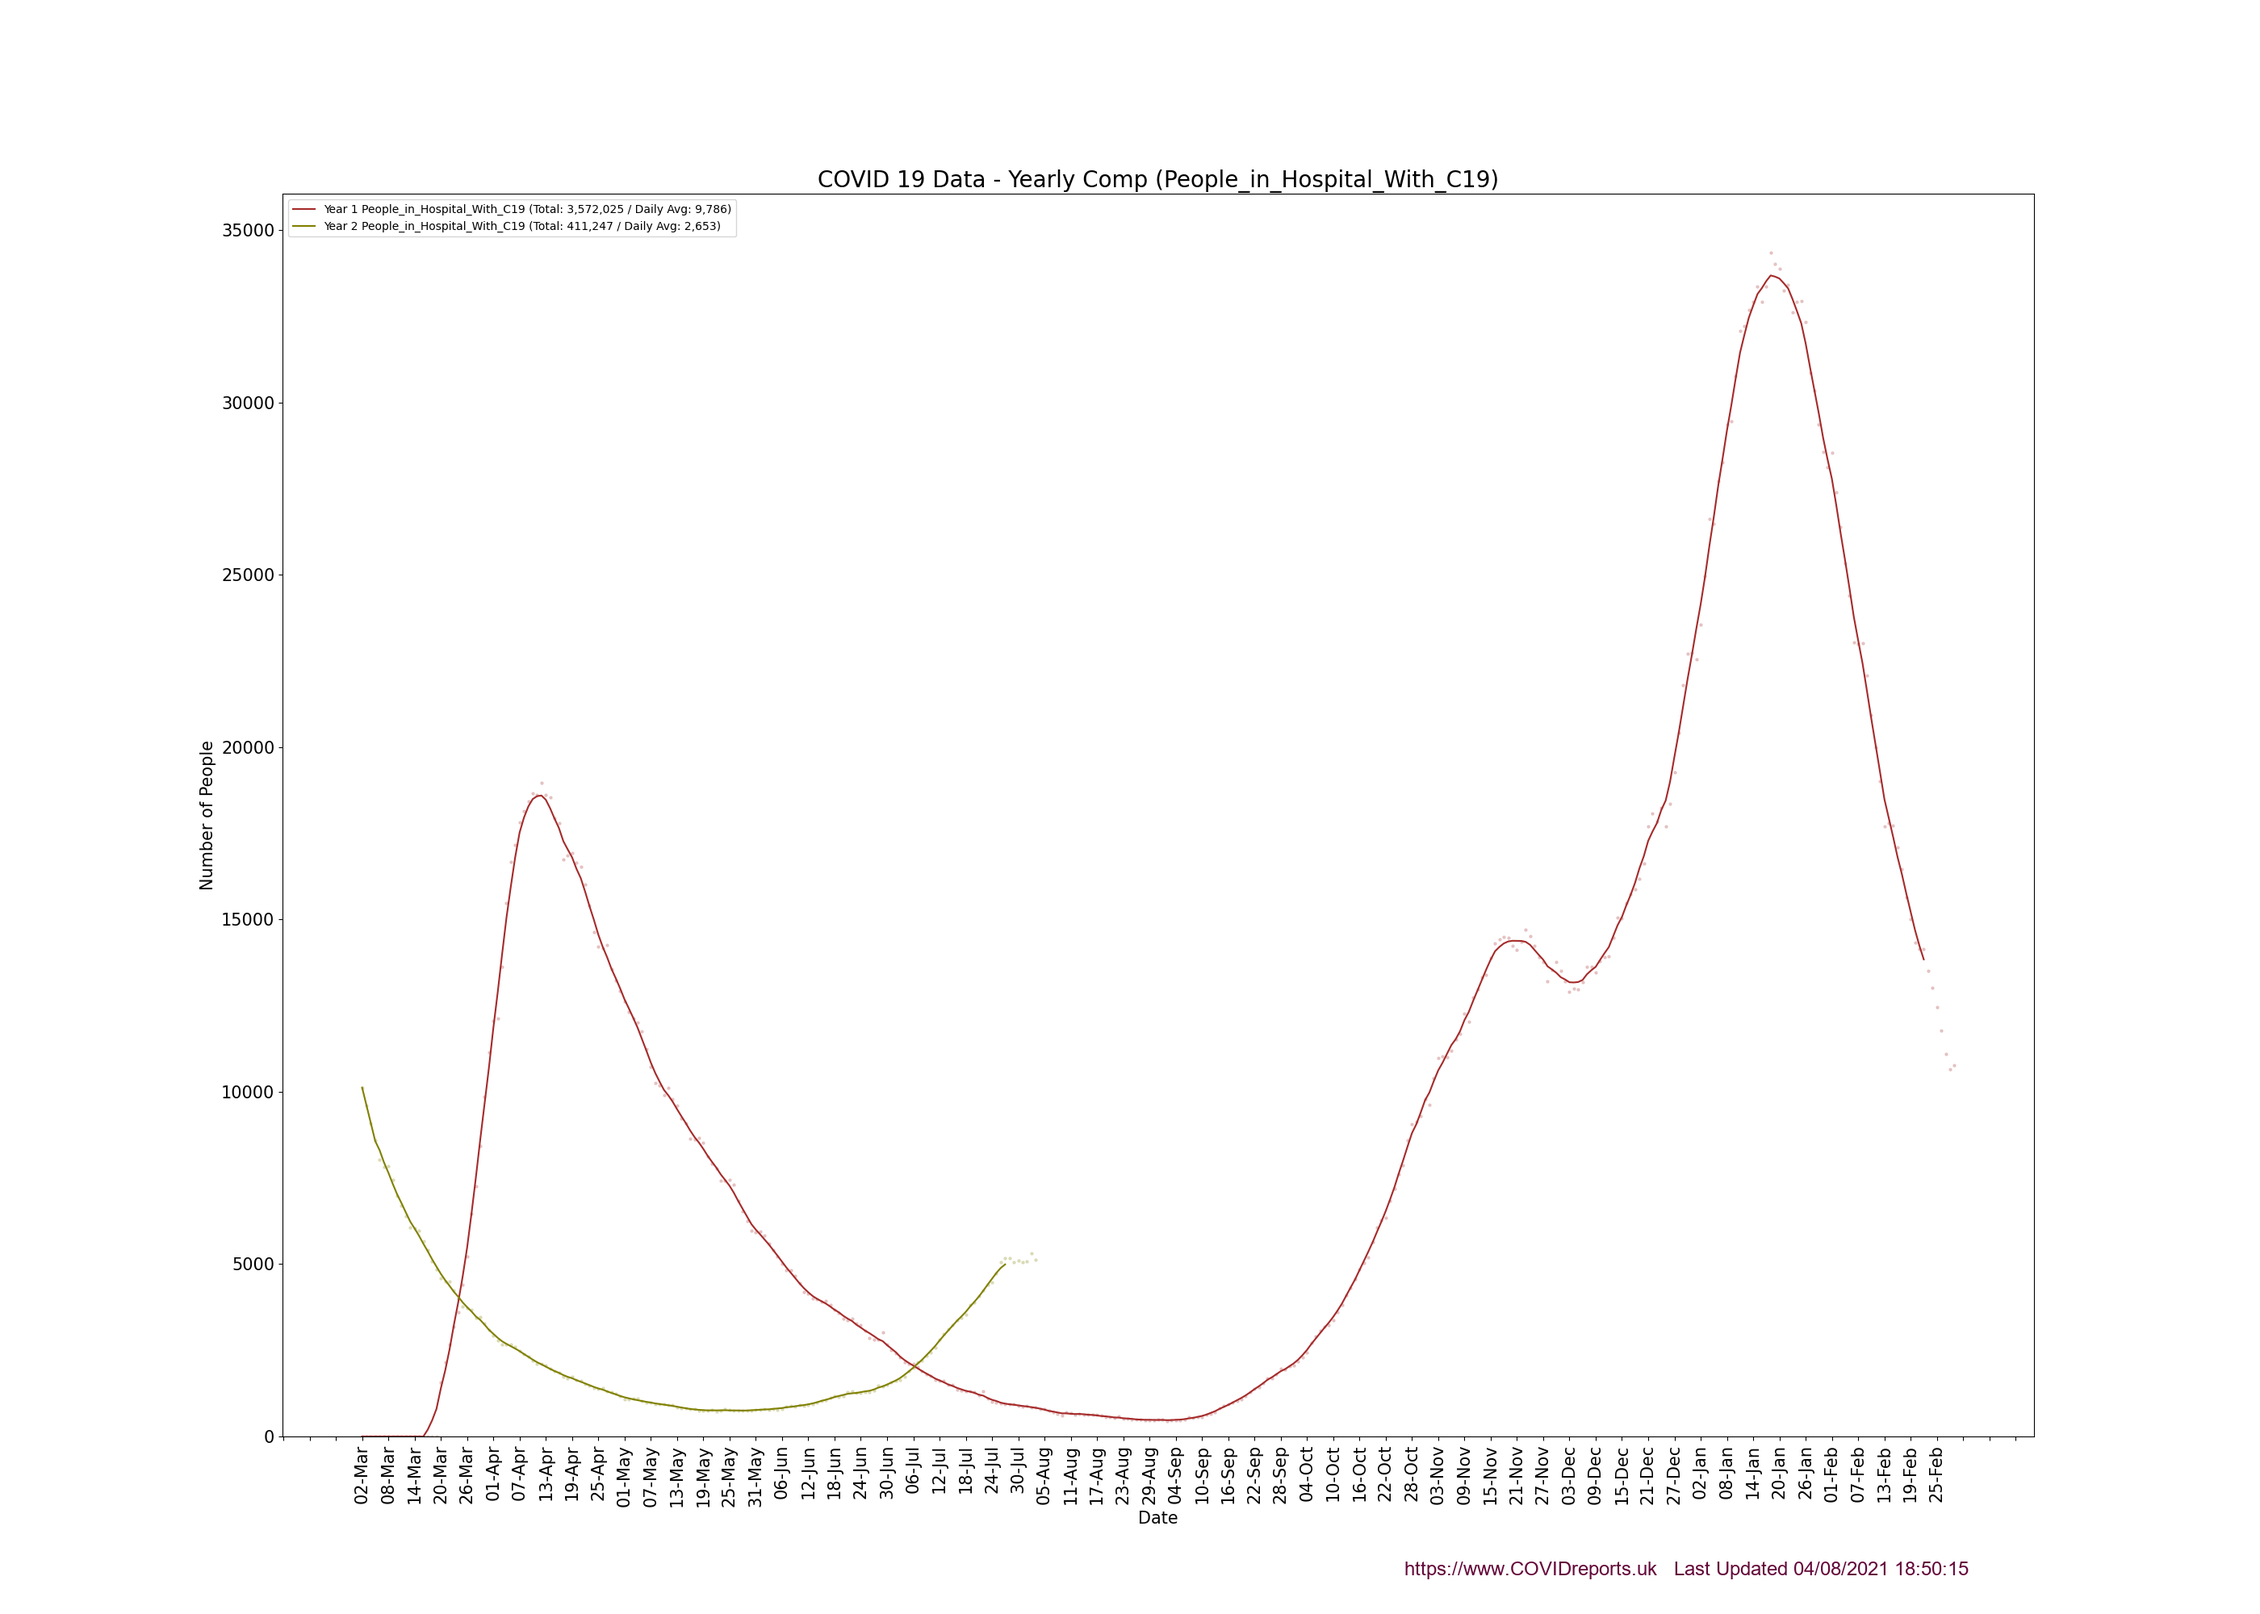
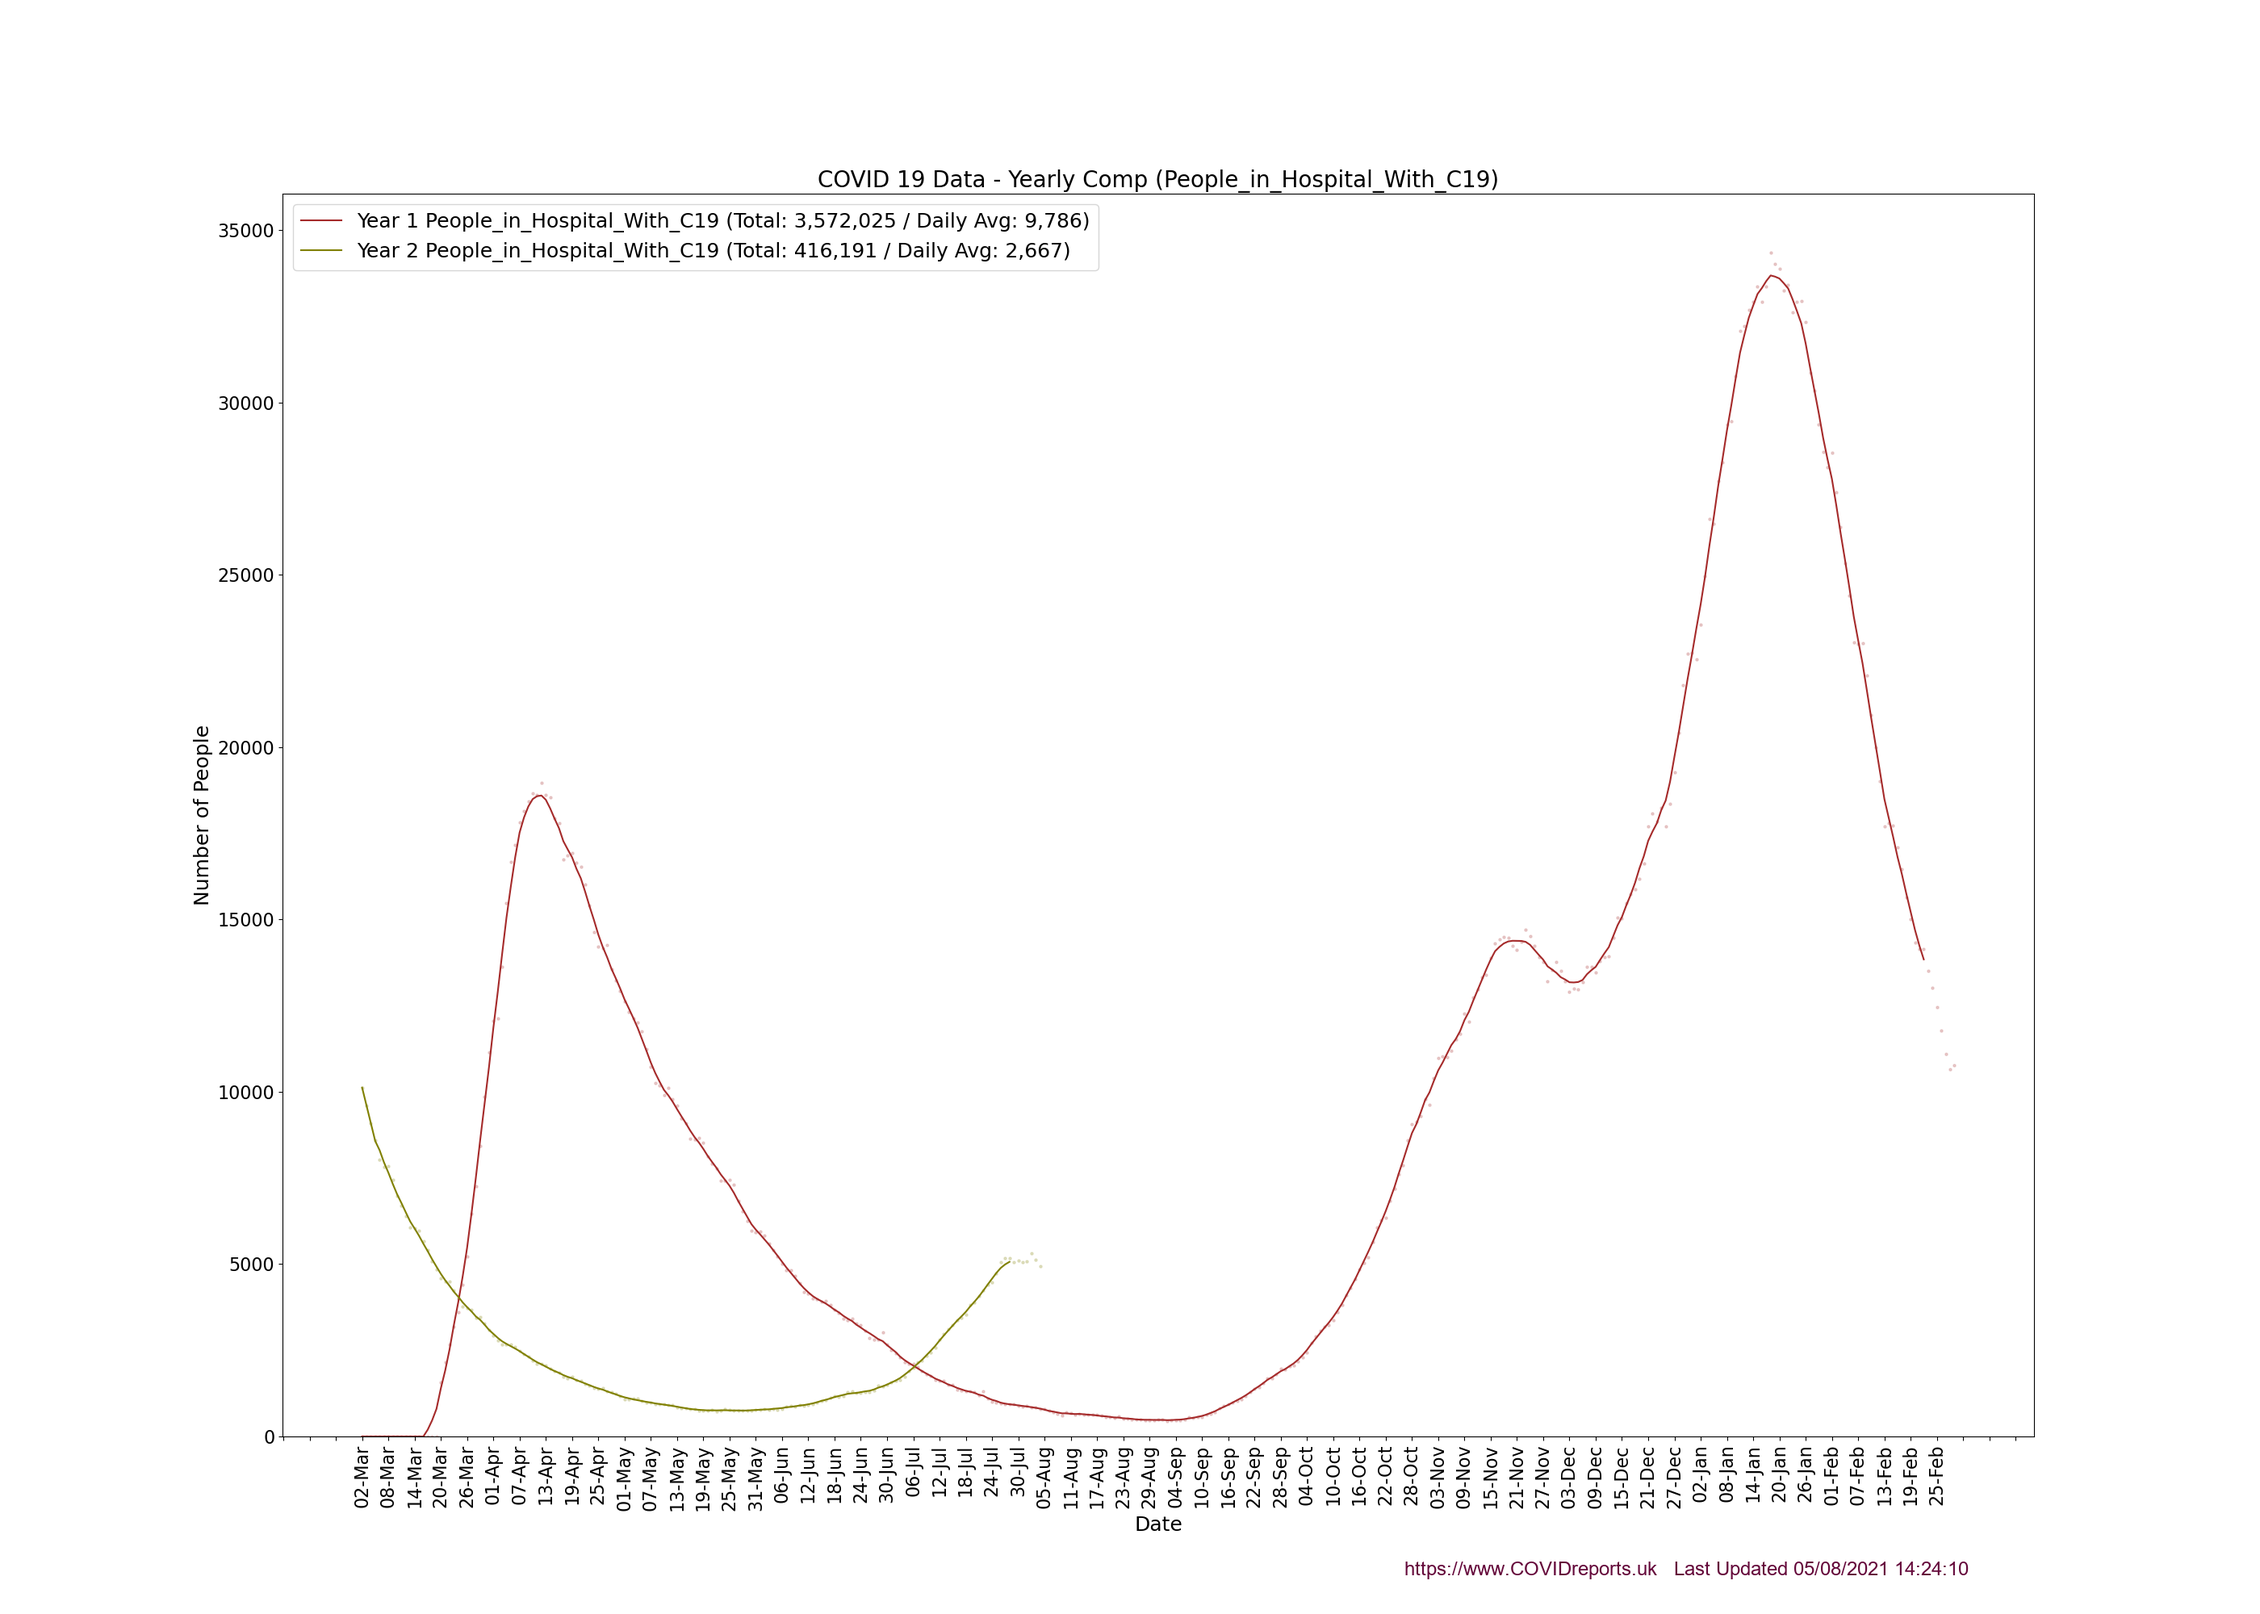
Stuff added to various modules

diff --git a/pages_02_Cases_Deaths.py b/pages_02_Cases_Deaths.py
@@ -44,7 +44,7 @@ def draw_Scatter_Aged_Cases_per_Million(lLimit, hLimit):
         chart.addScatterplot(dataAge.GOVdateSeries, agedCasesPerMillion[iii], lineColour[iii], lbl)
 
     fileName = "ageCasesPerCapita" + str(lLimit) + "_" + str(hLimit)
-    leg = ax1.legend(loc='upper left')
+    leg = ax1.legend(loc='upper left', fontsize = chart.globalLegendFontSize)
     chart.drawChart("Date", "Cases Per Million",  "COVID 19 Data - Daily Cases Per Million by Age in England", fileName, "false", "false", ax1, "true", "true")
     plt.close
 
@@ -122,7 +122,7 @@ def draw_Scatter_Aged_Cases(lLimit, hLimit):
         chart.addScatterplot(dataAge.GOVdateSeries, dataAge.getData(iii, 'cases', 'true'), lineColour[iii], lbl)
 
     fileName = "ageCases_" + str(lLimit) + "_" + str(hLimit)
-    leg = ax1.legend(loc='upper left')
+    leg = ax1.legend(loc='upper left', fontsize = chart.globalLegendFontSize)
     chart.drawChart("Date", "Number of People", "COVID 19 Data - Daily cases by Age in England", fileName, "false", "false", ax1, "true", "true")
 
 def draw_Age_Cases_Treemap():
@@ -201,7 +201,7 @@ def draw_Scatter_Aged_Deaths_per_Million(lLimit, hLimit):
         chart.addScatterplot(dataAge.GOVdateSeries, agedDeathsPerMillion[iii], lineColour[iii], lbl)
 
     fileName = "ageDeathsPerCapita" + str(lLimit) + "_" + str(hLimit)
-    leg = ax1.legend(loc='upper left')
+    leg = ax1.legend(loc='upper left', fontsize = chart.globalLegendFontSize)
     chart.drawChart("Date", "Deaths per Million", "COVID 19 Data - Daily Deaths Per Million by Age in England", fileName, "false", "false", ax1, "true", "true")
     plt.close
 
@@ -438,7 +438,7 @@ def draw_Scatter_Aged_Deaths(lLimit, hLimit):
         chart.addScatterplot(dataAge.GOVdateSeries, dataAge.getData(iii, 'deaths', 'true'), lineColour[iii], lbl)
 
     fileName = "ageDeaths_" + str(lLimit) + "_" + str(hLimit)
-    leg = ax1.legend(loc='upper left')
+    leg = ax1.legend(loc='upper left', fontsize = chart.globalLegendFontSize)
     chart.drawChart("Date", "Number of People", "COVID 19 Data - Daily Deaths by Age in England", fileName, "false", "false", ax1, "true", "true")
     plt.close()
 
@@ -478,11 +478,35 @@ def draw_Bar_Aged_Deaths():
     chart.createTimeStamp("images/" + fileName + '.png', 980, 970, 12)
     plt.close()
 
+def add_Aged_Data(cat, lLimit, hLimit, colour, label):
+    dataSet = [0] * len(dataAge.getData(0, cat, 'true'))
+    for ii in range(lLimit, hLimit):
+        tmpDataCases = [0] * len(dataSet)
+        tmpDataCases = dataAge.getData(ii, cat, 'true')
 
-'''
-import pages_06_Vaccinations as vac
-for ii in range(0, 19):
-    vac.draw_Scatter_Year_Comp(dataAge.getData(ii, 'deaths', 'true'), "false", "Death for Group " + str(ii))
-'''
+        for iii in range(len(dataSet)):
+            dataSet[iii] = dataSet[iii] + tmpDataCases[iii]
+
+    chart.addScatterplot(dataAge.GOVdateSeries, dataSet, colour, "Age Group (" + label + ")")
+
+def draw_Scatter_Aged_Death_Grouped():
+    setupChart()
+
+    add_Aged_Data("deaths",0,6, dataAge.lineColour[3], "0 - 29")
+    add_Aged_Data("deaths",6,10, dataAge.lineColour[7], "30 - 49")
+    add_Aged_Data("deaths",10,14, dataAge.lineColour[12],"50 - 69")
+    add_Aged_Data("deaths",14,19, dataAge.lineColour[16], "70+")
+
+    chart.drawChart("Date", "Number of People", "COVID 19 Data - Daily Deaths by Age in England by Age Group", "ageGroupDeaths", "false", "true", ax1, "true", "true")
+
+def draw_Scatter_Aged_Cases_Grouped():
+    setupChart()
+
+    add_Aged_Data("cases",0,6, dataAge.lineColour[3], "0 - 29")
+    add_Aged_Data("cases",6,10, dataAge.lineColour[7], "30 - 49")
+    add_Aged_Data("cases",10,14, dataAge.lineColour[12],"50 - 69")
+    add_Aged_Data("cases",14,19, dataAge.lineColour[16], "70+")
+
+    chart.drawChart("Date", "Number of People", "COVID 19 Data - Daily Cases by Age in England by Age Group", "ageGroupCases", "false", "true", ax1, "true", "true")
 
 

diff --git a/functions_Chart.py b/functions_Chart.py
@@ -16,6 +16,8 @@ from matplotlib.dates import DateFormatter
 
 #DRAWING LINES, LEGENDS ETC ON THE CHART ------------------------------------------------------------------------------------------
 
+globalLegendFontSize = 18
+
 def drawChart(xAxisTitle, yAxisTitle, title, fileName, toShow, showLeg, ax1, toAdd, toStamp):
 
     if (toAdd == 'true'):
@@ -90,12 +92,12 @@ def drawChart(xAxisTitle, yAxisTitle, title, fileName, toShow, showLeg, ax1, toA
     ax1.xaxis.set_major_locator(ticker.MaxNLocator(75))
 
     plt.title(title, fontsize=20)
-    plt.xlabel(xAxisTitle, fontsize=15)
-    plt.ylabel(yAxisTitle, fontsize=15)
+    plt.xlabel(xAxisTitle, fontsize=18)
+    plt.ylabel(yAxisTitle, fontsize=18)
     if(showLeg == "true"):
-        plt.legend(loc='best', fontsize = 15)
-    plt.xticks(rotation = 90, fontsize = 15)
-    plt.yticks(fontsize = 15)
+        plt.legend(loc='upper left', fontsize = 18)
+    plt.xticks(rotation = 90, fontsize = 16)
+    plt.yticks(fontsize = 16)
 
     figure = plt.gcf()
     figure.set_size_inches(28, 20)
@@ -110,7 +112,7 @@ def drawChart(xAxisTitle, yAxisTitle, title, fileName, toShow, showLeg, ax1, toA
     plt.xlabel(xAxisTitle, fontsize=10)
     plt.ylabel(yAxisTitle, fontsize=10)
     if(showLeg == "true"):
-        plt.legend(loc='best', fontsize = 8)
+        plt.legend(loc='upper left', fontsize = 8)
     plt.xticks(rotation = 90, fontsize = 8)
     plt.yticks(fontsize = 8)
 
@@ -455,3 +457,18 @@ def addBarplot(xData, yData, colour, label):
 
     plt.plot(values, nData,  color = colour, alpha = 1, label = label)
     plt.bar(xData, yData,  color = colour, alpha = 0.5)
+
+def put_Side_By_Side(filename1, filename2, saveName):
+    img = Image.new('RGB', (5600, 2000), color = 'white')
+    d = ImageDraw.Draw(img)
+
+    im1 = Image.open(filename1)
+    im2 = Image.open(filename2)
+
+    img.paste(im1, (0, 0))
+    img.paste(im2, (2800, 0))
+
+    img.save(saveName)
+
+
+

diff --git a/runWebsite.py b/runWebsite.py
@@ -5,6 +5,7 @@ import pages_05_Lockdown as page5
 import pages_06_Vaccinations as page6
 
 import functions_get_Data as getData
+import functions_Chart as chart
 
 print("------------------ COVID REPORTS JOB STARTED ------------------")
 
@@ -35,5 +36,10 @@ page4.draw_Scatter_Tests_Conducted()
 page5.draw_Daily_Growth_Rate()
 
 page6.draw_Comp_Graphs()
+chart.put_Side_By_Side("images/yearlyCompCases.png", "images/yearlyCompDeaths.png", "images/yearCompCasesDeaths.png")
+chart.put_Side_By_Side("images/yearlyCompHospital_Admissions.png", "images/yearlyCompPeople_in_Hospital_With_C19.png", "images/YearCompHospital.png")
+page2.draw_Scatter_Aged_Cases_Grouped()
+page2.draw_Scatter_Aged_Death_Grouped()
+chart.put_Side_By_Side("images/ageGroupCases.png", "images/ageGroupDeaths.png", "images/agedGroupedData.png")
 
 print("------------------ COVID REPORTS JOB COMPLETE ----------- -------")

diff --git a/pages_01_Overview.py b/pages_01_Overview.py
@@ -46,8 +46,6 @@ def draw_DeathsVdeaths(toShow, toSave):
     Draws a graph showing Death by Death Date and Death by Reported Date
     '''
     fig, ax1 = plt.subplots()
-    #plt.cla()
-    #plt.clf()
 
     #Normal Resolution Chart
     chart.addBarplot(GOVdateSeries, deathsByReportDate, 'blue', 'Deaths by Report Date')
@@ -60,6 +58,3 @@ def draw_DeathsVdeaths(toShow, toSave):
     chart.addBarplot(GOVdateSeries, newDeaths, 'red', 'Deaths by Death Date')
     chart.drawChartHR("Date","Number of People","COVID 19 Data - Death Reported Date vs Death Date", "deathsAndDeathsHR",toShow, toSave, ax1, "true", "true") #Draws the chart with lockdowns etc drawn on
     plt.close()
-
-
-

diff --git a/pages_06_Vaccinations.py b/pages_06_Vaccinations.py
@@ -73,7 +73,7 @@ def draw_Scatter_Year_Comp(data, toShow, label):
         totals = "{:,}".format(totals)
         chart.addScatterplot(yDates, plotData, colours[ii], "Year " + str(yNum) + " " + label + " (Total: " + str(totals) + " / Daily Avg: " + str(dailyAvg) + ")")
 
-    ax1.legend(loc='upper left')
+    ax1.legend(loc='upper left' , fontsize = chart.globalLegendFontSize)
 
     chart.drawChart("Date","Number of People","COVID 19 Data - Yearly Comp (" + label + ")", "yearlyComp" + label ,toShow , "false", ax1, "flase", "true") #Draws the chart with lockdowns etc drawn on
 

diff --git a/pages_05_Lockdown.py b/pages_05_Lockdown.py
@@ -46,7 +46,7 @@ def draw_Daily_Growth_Rate():
     chart.addScatterplot(GOVdateSeries, caseGR, 'darkcyan', 'Cases Daily Growth Rate, 50,000 = Baseline')
     chart.addDashedLine(GOVdateSeries, sfA, 'grey', 'Baseline') # This is the Baseline at 50,000
 
-    ax1.legend(loc='upper right')
+    ax1.legend(loc='upper right', fontsize = chart.globalLegendFontSize)
 
     chart.drawChart("Date","Number of People","COVID 19 Data - Cases Daily Growth Rate", "gRateCases" ,"false", "false", ax1, "true", "true") #Draws the chart with lockdowns etc drawn on
 
